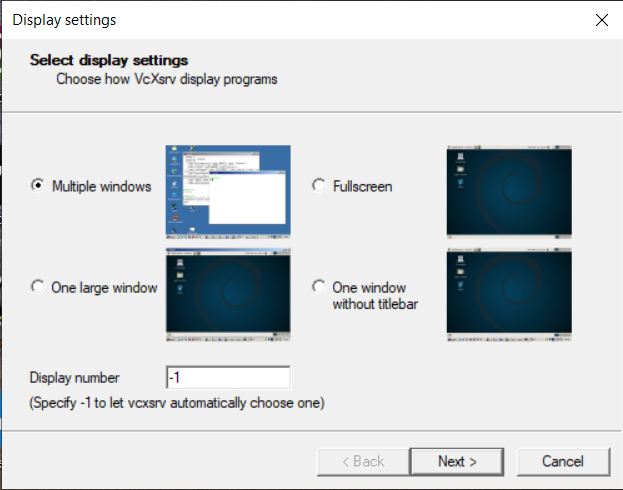
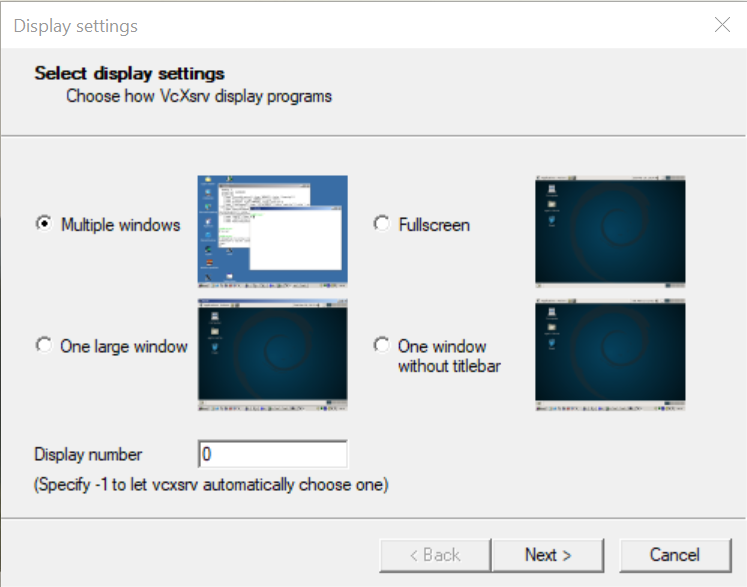
Update documentation

diff --git a/README.md b/README.md
@@ -14,10 +14,10 @@
 cd <path/to/repo>
 
 # Activate Container
-create_container.bash
+./create_container.bash
 ```
 
-4. To exit the container type `exit` in the terminal
+This will automatically setup your system to later run the docker and download the pre-compiled image from dockerhub. Once downloaded, the script starts a container called `smb_container` that can be used to run the SMB software (see [reconnecting to the docker container](#reconnecting-to-the-docker-container)).
 
 
 ### Windows
@@ -25,16 +25,16 @@ create_container.bash
 2. Install VcXsrv [here](https://sourceforge.net/projects/vcxsrv/)
 3. Launch VcXsrv and put the settings as in the pictures
    ![setup 1](images/docker_setup_1.png)
+
    ![setup 2](images/docker_setup_2.png)
+
    ![setup 3](images/docker_setup_3.png)
+
 4. Open the powershell and run
 
 ```bash
-# Get your ip address
-ipconfig
-
 # Run docker
-docker run -it --env="DISPLAY=<YOUR_IP_ADDR>:0.0" --volume=smb_volume:/home/catkin_ws/src --net=host --name smb_container ethzrobotx/smb_docker bash
+docker run -it --env="DISPLAY=host.docker.internal:0.0" --volume=smb_volume:/home/catkin_ws/src --net=host --name smb_container ethzrobotx/smb_docker bash
 ```
 
 5. To exit the container type `exit` in the terminal
@@ -45,29 +45,44 @@ docker run -it --env="DISPLAY=<YOUR_IP_ADDR>:0.0" --volume=smb_volume:/home/catk
 > Usage of Visual Studio is not necessary.
 
 
-1. Open Visual Studio Code and install the **dev-containers** extension.
-2. Click on the extension on the left bottom corner and connect to the previously created container.
+1. Open Visual Studio Code and install the **dev - containers** extension.
+2. Click on the extension on the bottom left corner and attach to the previously created container.
 3. When the new window opens install the **C/C++** and **Python** extension from Microsoft inside the container. This is needed in order to get autocompletion.
+4. The catkin workspace is located in /home/catkin_ws
 
-## Reconnecting to the Docker container
+## (Re-)connecting to the Docker container
 
-```bash
-# Start the Docker Container
-sudo docker container start smb_container
-
-# Attach the Docker Container
-sudo docker container attach smb_container
-```
-
-## How to use simulation the Docker
-
-If you want to launch several sessions connected to the same container from multiple terminals: 
+Once you have setup the smb_container, you can create a terminal (bash shell) by running
 
 ```bash
-# Launch new session to the same container
 docker exec -it smb_container bash
 ```
 
-If you want to run the simulation you can follow the [how to run SMB software](https://ethz-robotx.github.io/SuperMegaBot/core-software/HowToRunSoftware.html).
+There is no need to run the script create_container.sh anymore. 
 
-> You can run launch_gazebo_gui:=false if you do not need to see the simulation environment. Yet, you can recognize the obstacles in the Rviz visualization tool thanks to the modeled sensor behavior.
+If you closed all running instances of bash in the `smb_container`, you might need to start it again by running
+
+```bash
+# start docker container
+docker start smb_container
+
+# create a terminal (bash) in the container:
+docker exec -it smb_container bash
+```
+
+The latter command can be repeated multiple times to create several terminals in the same container.
+
+## How to use the simulation in the Docker container
+
+If you want to run the simulation you can follow the [how to run SMB software](https://ethz-robotx.github.io/SuperMegaBot/core-software/HowToRunSoftware.html) and run the commands given there in a terminal in the smb_container. I.e.
+
+```bash
+# create a terminal (bash) in the container:
+docker exec -it smb_container bash
+```
+
+In the then so created terminal, run:
+
+```bash
+roslaunch smb_gazebo sim.launch
+```
